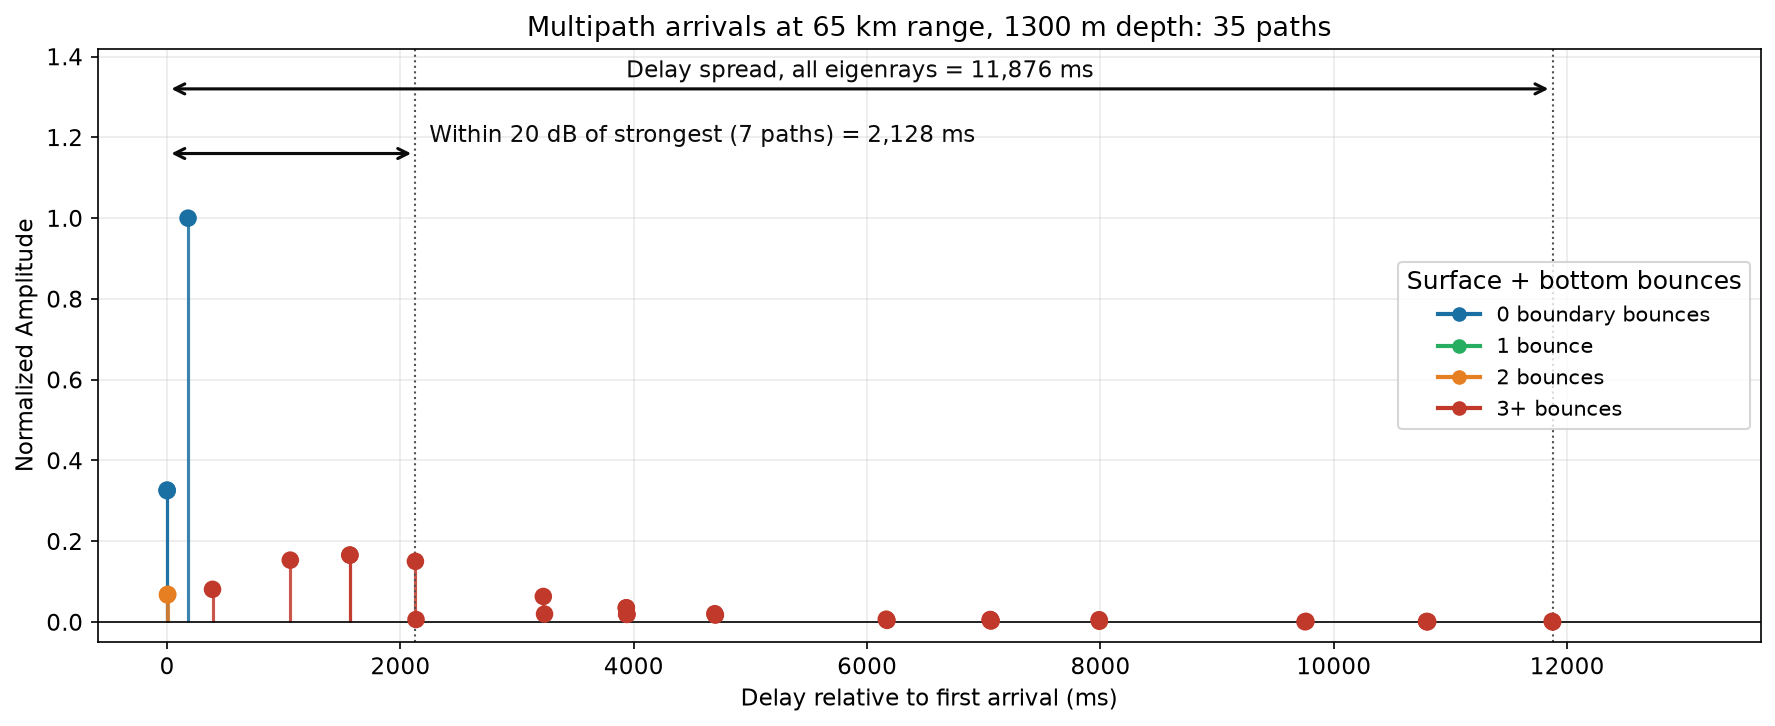
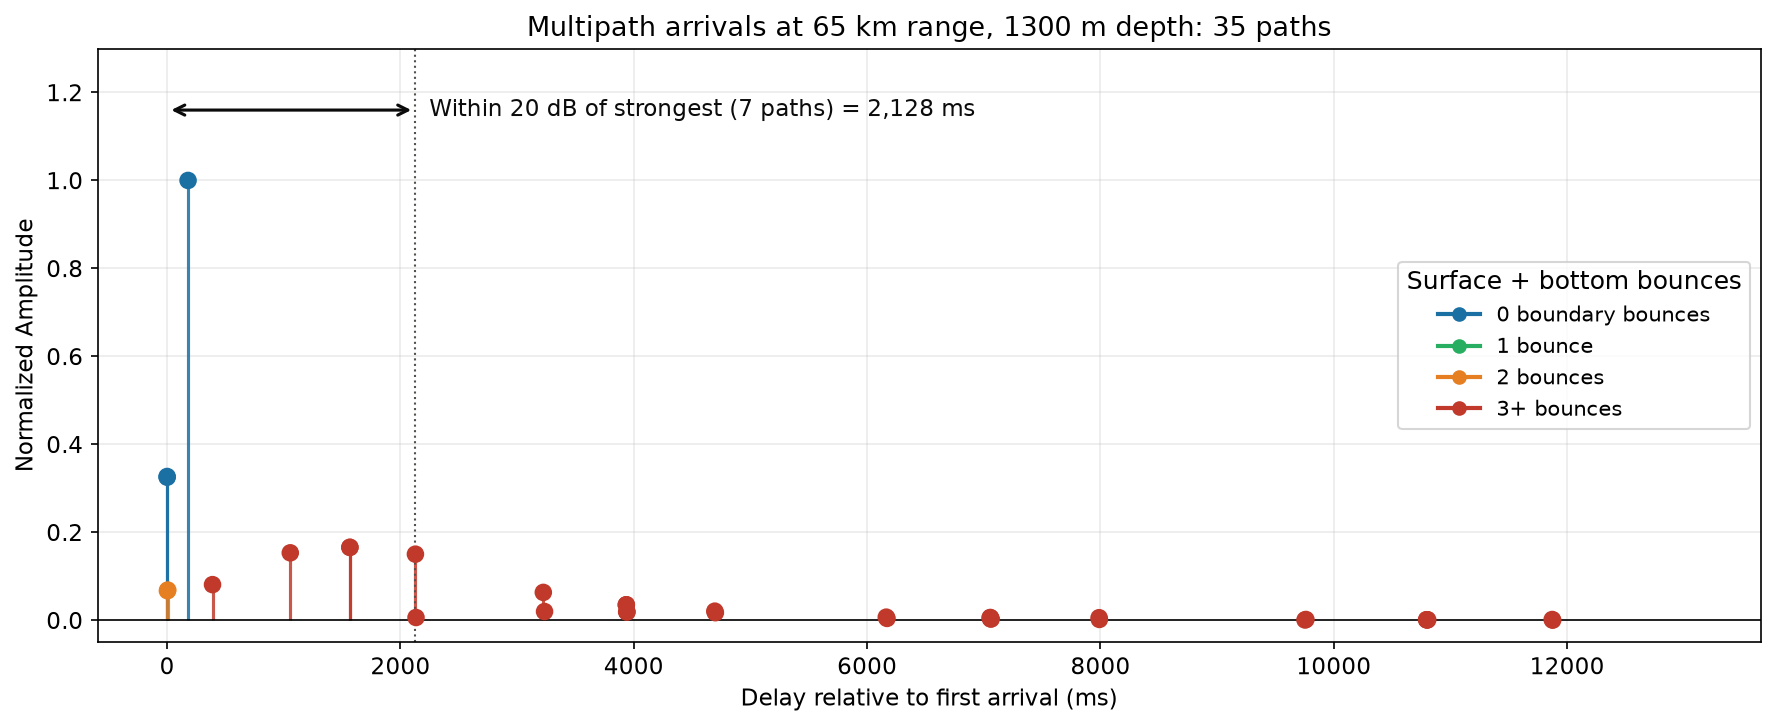
Mark only the delay spread within 20 dB on the arrivals plot and relabel the BER axis

diff --git a/scripts/export_figures.py b/scripts/export_figures.py
@@ -189,15 +189,14 @@ def deep_water(pm, results):
     pl.plot_arrivals(arr, env_arr, ax=ax, title=(
         f'Multipath arrivals at {a["rx_range_km"]:.0f} km range, {a["rx_depth_m"]:.0f} m depth: '
         f'{stats["n_arrivals"]} paths'))
-    ax.set_ylim(-0.05, 1.42)
-    for y, x1, label in ((1.32, spread_ms, f'Delay spread, all eigenrays = {spread_ms:,.0f} ms'),
-                         (1.16, spread20_ms, f'Within 20 dB of strongest ({n20} paths) = {spread20_ms:,.0f} ms')):
-        ax.annotate('', xy=(x1, y), xytext=(0, y),
-                    arrowprops=dict(arrowstyle='<->', color='#0b0b0b', lw=1.5))
-        ax.text(x1 / 2 if x1 > spread_ms * 0.3 else x1 + spread_ms * 0.01, y + 0.015, label,
-                ha='center' if x1 > spread_ms * 0.3 else 'left', va='bottom',
-                fontsize=11, color='#0b0b0b')
-    ax.axvline(spread_ms, color='#52514e', linestyle=':', linewidth=1)
+    ax.set_ylim(-0.05, 1.3)
+    # Only the spread within 20 dB of the strongest arrival is marked: the full eigenray
+    # spread is set by echoes far too weak to matter for a receiver.
+    y = 1.16
+    ax.annotate('', xy=(spread20_ms, y), xytext=(0, y),
+                arrowprops=dict(arrowstyle='<->', color='#0b0b0b', lw=1.5))
+    ax.text(spread20_ms + spread_ms * 0.01, y, f'Within 20 dB of strongest ({n20} paths) = {spread20_ms:,.0f} ms',
+            ha='left', va='center', fontsize=11, color='#0b0b0b')
     ax.axvline(spread20_ms, color='#52514e', linestyle=':', linewidth=1)
     bounce_pal = [pl.WATER_COLOR, '#27ae60', '#e67e22', '#c0392b']
     handles = [Line2D([0], [0], color=c, marker='o', lw=2, label=lbl) for c, lbl in
@@ -331,7 +330,7 @@ def comms_link(pm, results):
     ax.semilogy(snr[nz], ber_ch[nz], 'o-', color='#2a78d6', linewidth=2, markersize=8,
                 label=f'Simulated BPSK, BELLHOP multipath channel ({stats["n_arrivals"]} paths)')
     ax.set_ylim(max(0.5 / n_bits, 1e-6), 1)
-    ax.set_xlabel('SNR per sample (dB)')
+    ax.set_xlabel('SNR per sample, on total received power (dB)')
     ax.set_ylabel('Bit error rate')
     ax.set_title(f'BPSK BER vs SNR: {wd:.0f} m water, {c["rx_range_km"]:.0f} km range, '
                  f'{c["frequency_hz"]:.0f} Hz\nReceiver synced to strongest path, no equalizer')
